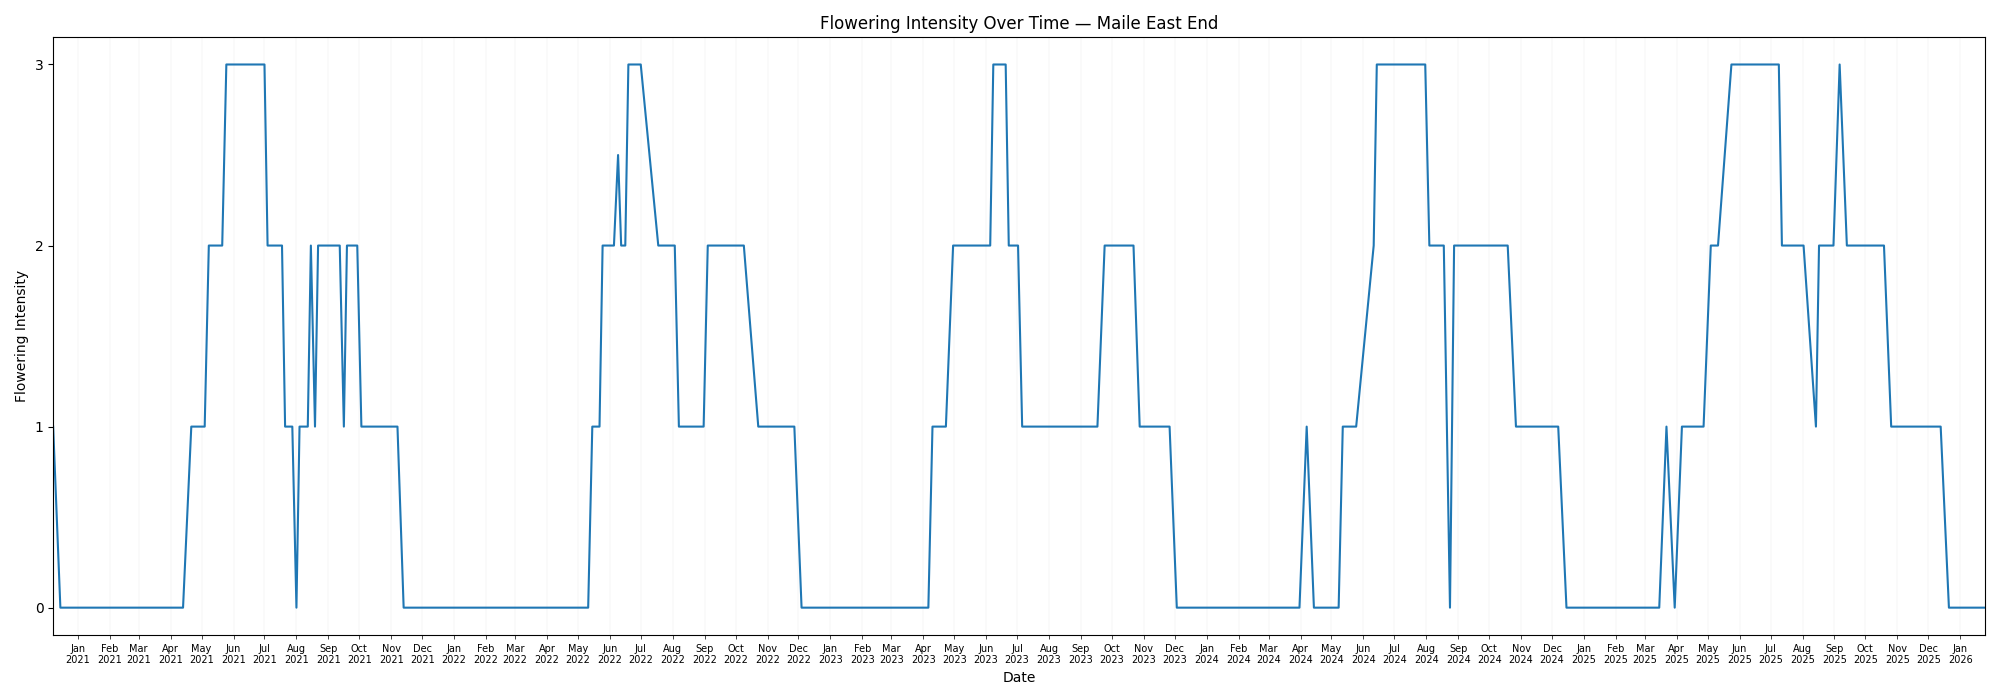
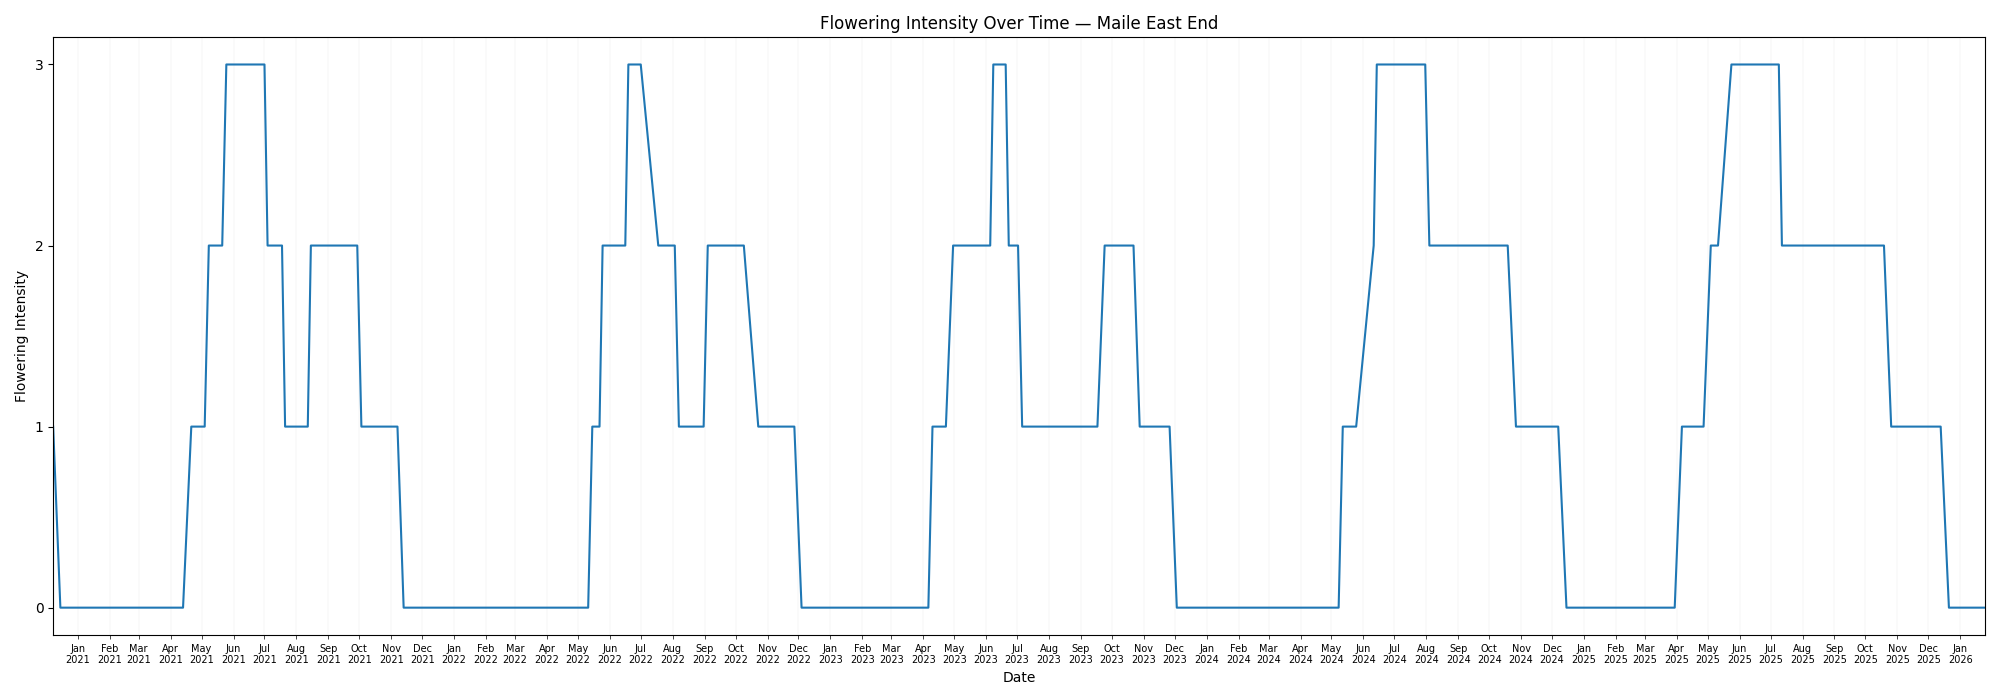
Fixed spikes

Changed region(s): [[0.155, 0.36, 0.186, 0.6], [0.899, 0.33, 0.93, 0.36]]

diff --git a/plots/plot.py b/plots/plot.py
@@ -27,7 +27,7 @@ df["intensity_used"] = df["intensity"]
 # -------------------------
 # Group by site + date
 # -------------------------
-grouped = df.groupby(["site", "date"])["intensity_used"].mean().reset_index()
+grouped = df.groupby(["site", "date"])["intensity_used"].max().reset_index()
 
 print("Sites found:", grouped["site"].unique())
 
